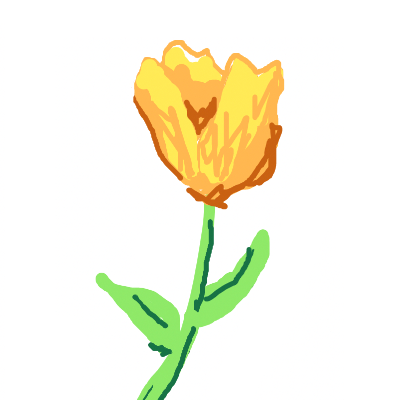
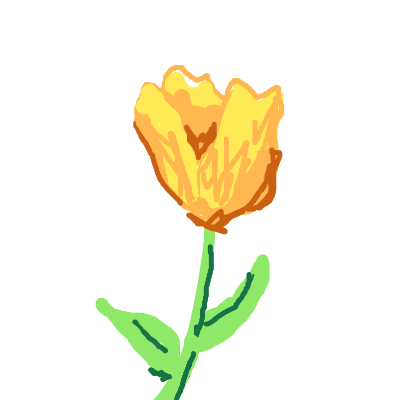
feat(CSS): updates flower image and adds CSS to End Game Page

Changed region(s): [[0.24, 0.09, 0.72, 1.0]]

diff --git a/FrontEnd/src/AppCSS.js b/FrontEnd/src/AppCSS.js
@@ -472,20 +472,18 @@ export const AddTxtBtn = styled.button`
 `;
 
 export const DownloadAhref = styled.a`
-  border-radius: 6px;
+  border-radius: 7px;
   border: 2px solid darkgrey;
-  align: center;
-  height: 35px;
-  width: 105px;
+  padding: 3px 10px;
   background-color: #134d44;
   color: white;
-  font-size: 16px;
+  font-size: 14px;
   font-weight: bold;
-  margin: auto;
   margin-top: 10px;
   display: flex;
   justify-content: center;
   align-items: center;
+  text-decoration: none;
 `;
 
 export const PlayAgainBtn = styled.button`
@@ -496,7 +494,7 @@ export const PlayAgainBtn = styled.button`
   width: 115px;
   background-color: #134d44;
   color: white;
-  font-size: 16px;
+  font-size: 14px;
   font-weight: bold;
 `;
 
@@ -523,7 +521,7 @@ export const EndGameElement = styled.div`
 export const EndGameH1 = styled.h1`
   display: flex;
   justify-content: center;
-  font-size: 15px;
+  font-size: 20px;
 `;
 
 export const EndGamePage = styled.div`

diff --git a/FrontEnd/src/EndGame.js b/FrontEnd/src/EndGame.js
@@ -39,14 +39,11 @@ const EndGame = (props) => {
     <EndGamePage>
       <EndGameContainer>
         <EndGameH1>Thanks For Playing!</EndGameH1>
-        <EndGameElement>Save your Scribb Scrabb?</EndGameElement>
+        <EndGameElement>What a Beautiful Scribb Scrabb!</EndGameElement>
         <EndGameElement>
-          <img src={finalScribs} style={{ width: "300px", margin: "10px" }} />
+          <img src={finalScribs} style={{ width: "450px", margin: "10px" }} />
         </EndGameElement>
-        <DownloadAhref
-          href={finalScribs}
-          download="ScribScrab.png"
-        >
+        <DownloadAhref href={finalScribs} download="ScribScrab.png">
           Download
         </DownloadAhref>
 
